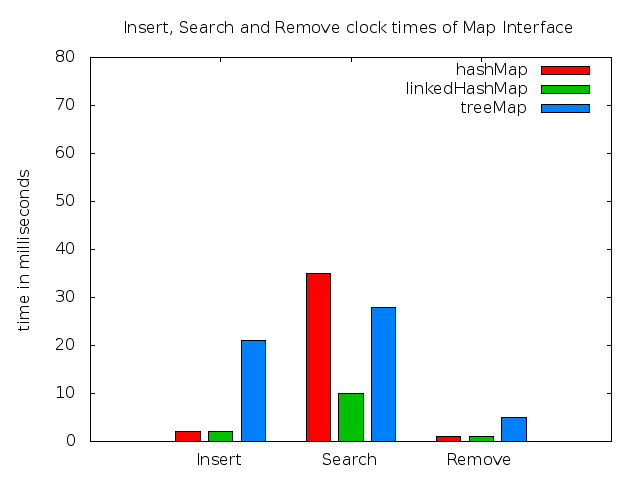
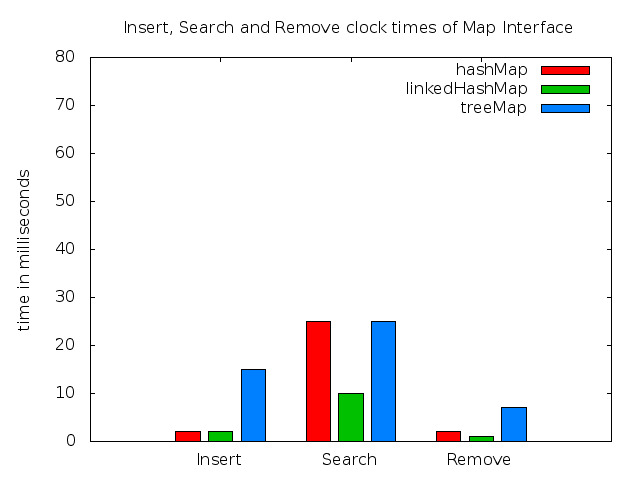
gráficos gerados! mas ainda falta aprender a automatizar..

diff --git a/src/util/Time.java b/src/util/Time.java
@@ -33,7 +33,7 @@ public class Time implements Cloneable{
 
     public Long getCpuTime() {
         ThreadMXBean bean = ManagementFactory.getThreadMXBean();
-        return bean.isCurrentThreadCpuTimeSupported() ? bean.getCurrentThreadCpuTime() : 0L;
+        return bean.isCurrentThreadCpuTimeSupported() ? bean.getCurrentThreadCpuTime()/1000000 : 0L;
     }
 
     public Long getClockDiff() {
